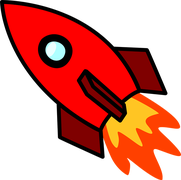
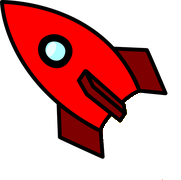
Added rocket rotation.

Changed region(s): [[0.5525, 0.5, 1.0, 1.0]]

diff --git a/scripts/controls.js b/scripts/controls.js
@@ -5,7 +5,7 @@ var keys = {
     rightKeyPressed : false
 };
 
-var rocketLocation = { x : 300, y: 300};
+var rocketLocation = { x : 300, y: 300, angle: 0};
 
 $(document).ready(function () {
     document.addEventListener('keydown', function(event) {
@@ -48,15 +48,19 @@ $(document).ready(function () {
             rocketLocation.y = rocketLocation.y - pixelShift;
         }
         if (keys.leftKeyPressed) {
-            rocketLocation.x = rocketLocation.x - pixelShift;
+            //rocketLocation.x = rocketLocation.x - pixelShift;
+            rocketLocation.angle = rocketLocation.angle - 1;
         }
         if (keys.rightKeyPressed) {
-            rocketLocation.x = rocketLocation.x + pixelShift;
+            //rocketLocation.x = rocketLocation.x + pixelShift;
+            rocketLocation.angle = rocketLocation.angle + 1;
         }
     }, 20);
 
     setInterval(function () {
-        document.getElementById("rocket").style.top = rocketLocation.y + "px";
-        document.getElementById("rocket").style.left = rocketLocation.x + "px";
-    }, 20);
+        var rocketStyle = document.getElementById("rocket").style;
+        rocketStyle.top = rocketLocation.y + "px";
+        rocketStyle.left = rocketLocation.x + "px";
+        $("#rocket").css("transform", "rotate(" + rocketLocation.angle + "deg)");
+    }, 40);
 });
